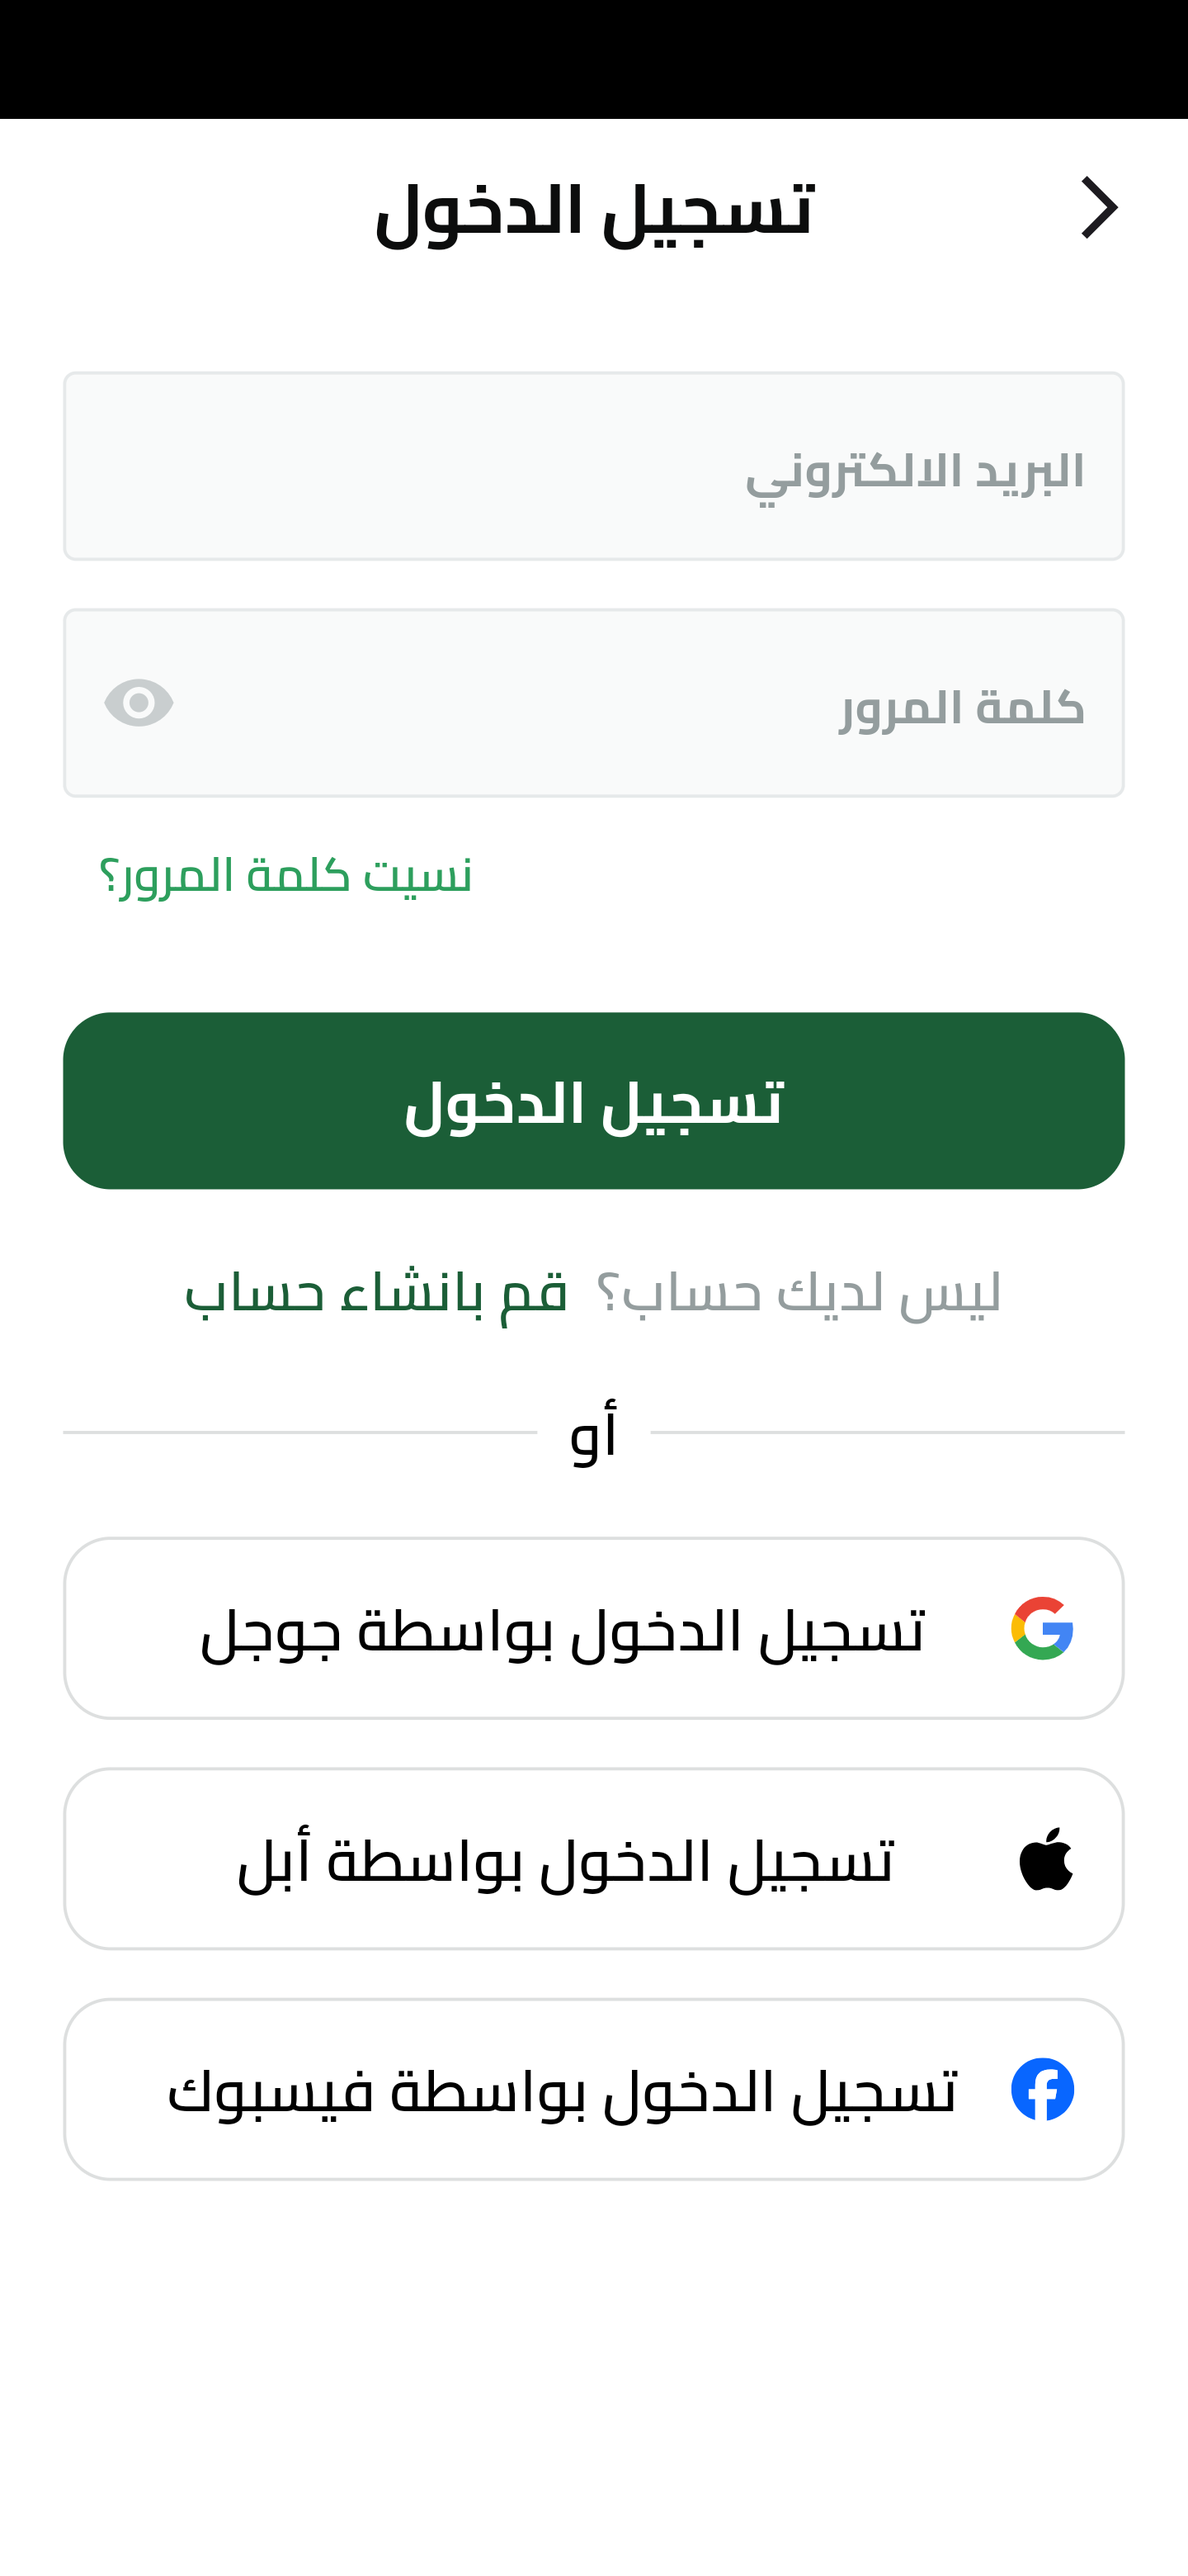
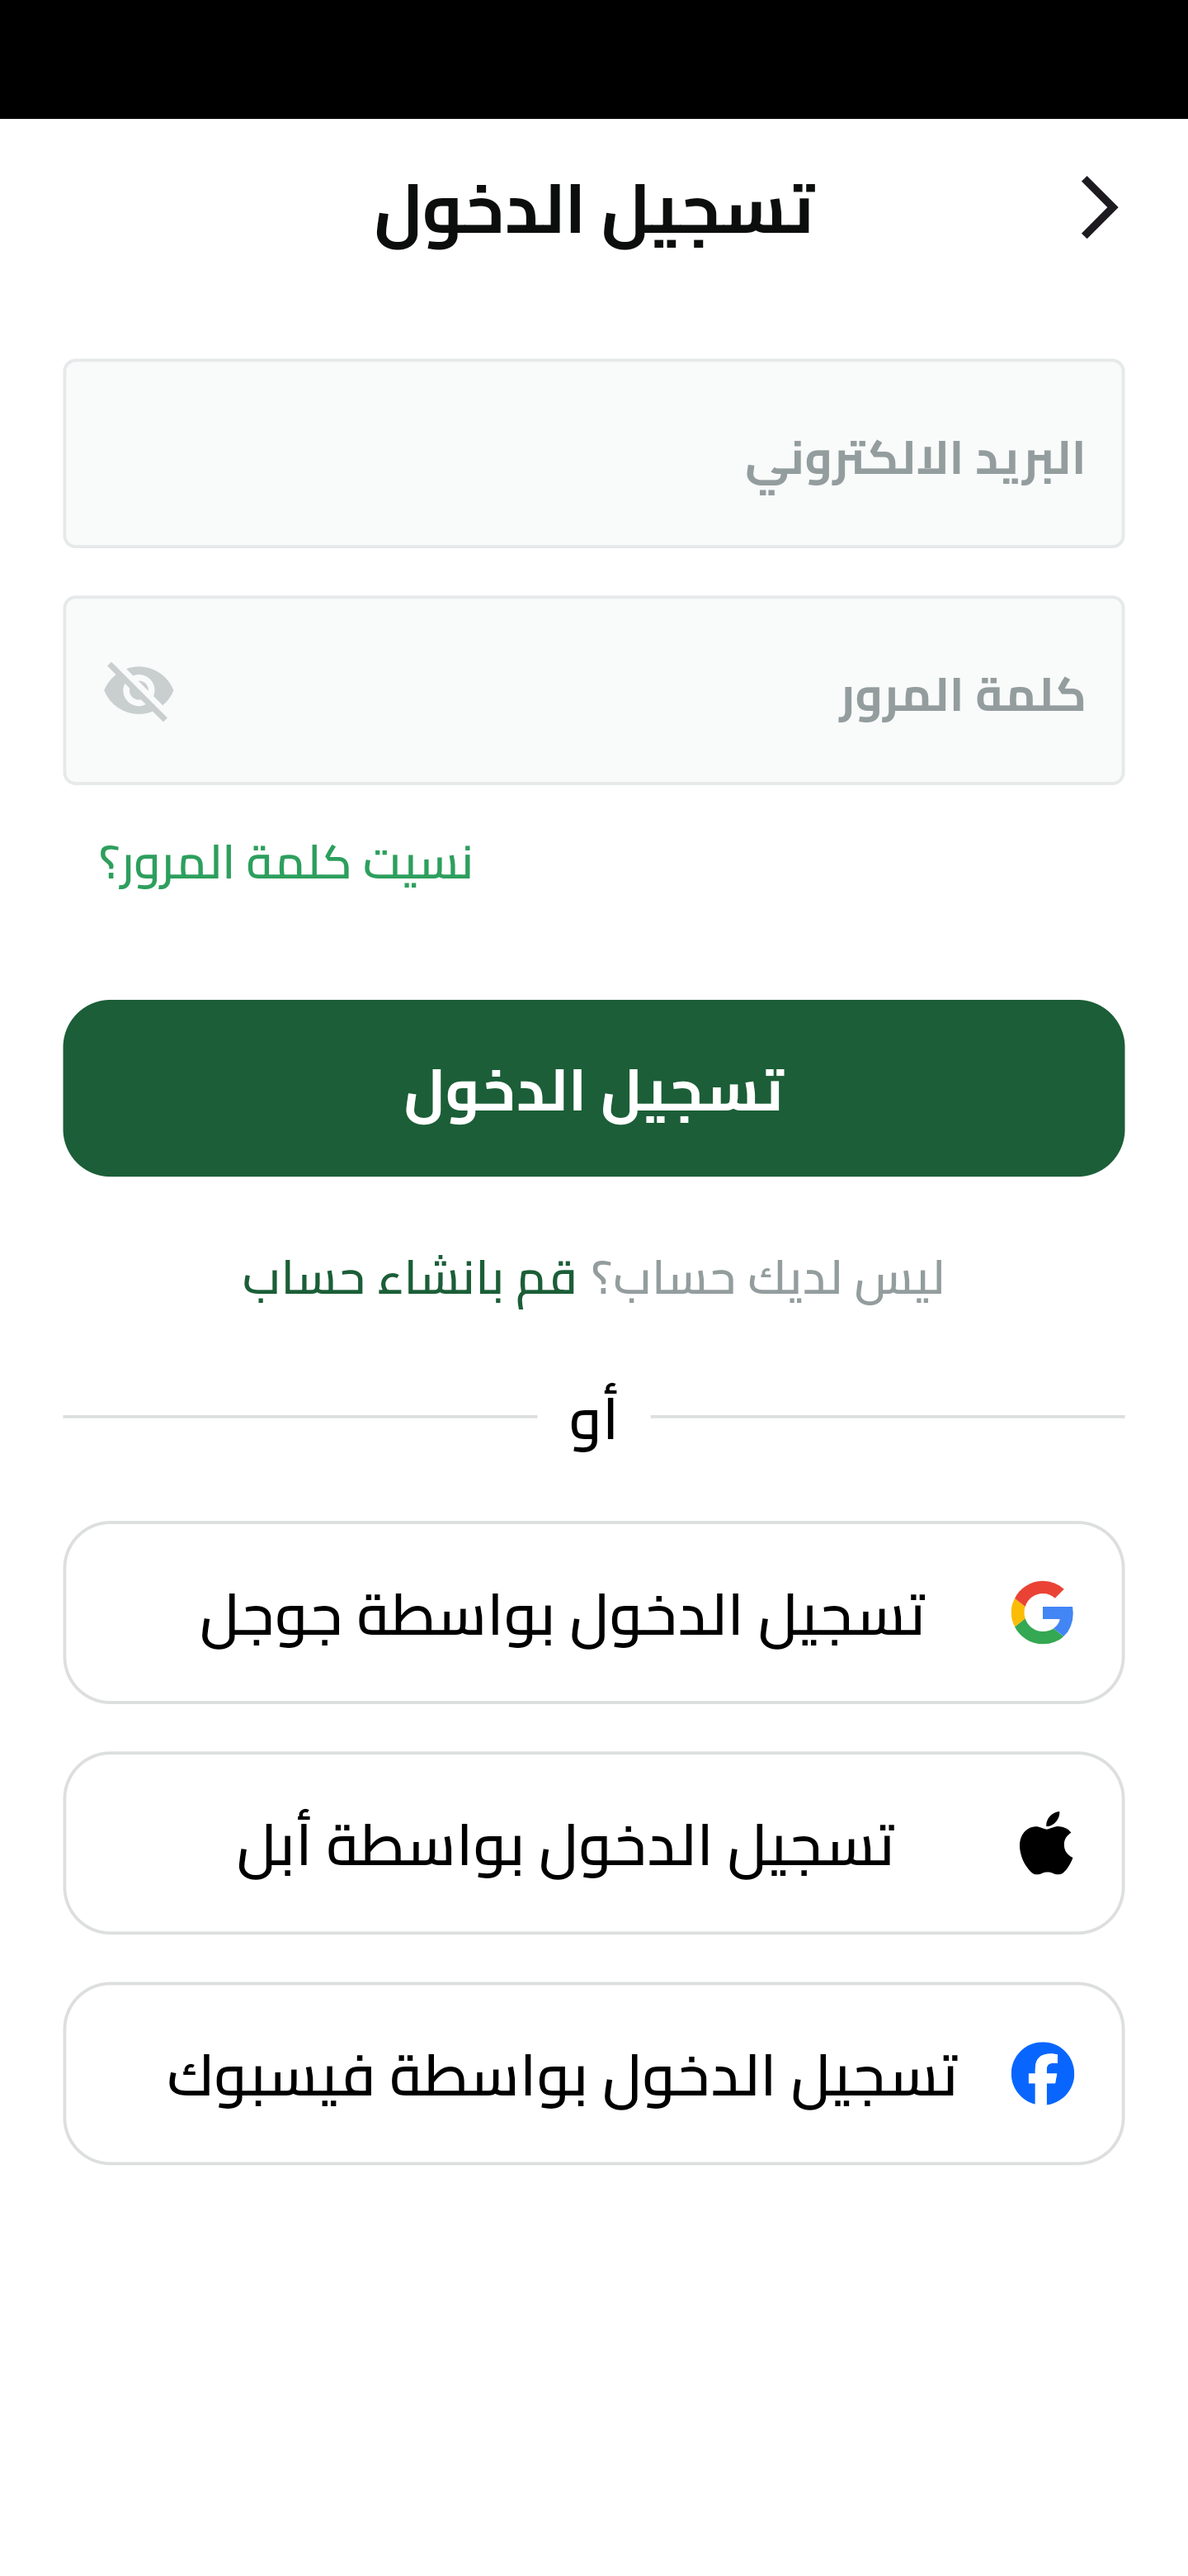
Add sign up view and related widgets
Added the sign up view and its related widgets including the name, email, and password fields, privacy policy checkbox, and sign up button. Also added a new route for the sign up view in the app router. Updated the login view by removing unnecessary gaps and reordering the widgets. Removed the unused forget password view from the todo list.

diff --git a/lib/features/auth/views/sign_up_view.dart b/lib/features/auth/views/sign_up_view.dart
@@ -1,0 +1,72 @@
+import 'package:flutter/material.dart';
+import 'package:fruit_hub/core/widgets/custom_button.dart';
+import 'package:gap/gap.dart';
+import 'package:go_router/go_router.dart';
+
+import '../../../core/widgets/custom_app_bar.dart';
+import '../../../core/widgets/mixed_text_button.dart';
+import '../../../k.dart';
+import '../widgets/sign_up_email_field.dart';
+import '../widgets/sign_up_name_field.dart';
+import '../widgets/sign_up_password_field.dart';
+import 'sign_up_privacy_policy.dart';
+
+class SignUpView extends StatelessWidget {
+  const SignUpView({super.key});
+
+  @override
+  Widget build(BuildContext context) {
+    return const Scaffold(
+      backgroundColor: Colors.white,
+      appBar: CustomAppBar(
+        title: 'حساب جديد',
+      ),
+      body: Padding(
+        padding: EdgeInsets.symmetric(
+          horizontal: K.horizontalPadding,
+          vertical: K.verticalPadding,
+        ),
+        child: Column(
+          children: [
+            SignUpNameField(),
+            Gap(15),
+            SignUpEmailField(),
+            Gap(15),
+            SignUpPasswordField(),
+            Gap(15),
+            SignUpPrivacyPolicy(),
+            Gap(20),
+            SignUpButton(),
+            Gap(15),
+            LoginNow(),
+          ],
+        ),
+      ),
+    );
+  }
+}
+
+class SignUpButton extends StatelessWidget {
+  const SignUpButton({super.key});
+
+  @override
+  Widget build(BuildContext context) {
+    return CustomButton(
+      text: 'إنشاء حساب جديد',
+      onPressed: () {},
+    );
+  }
+}
+
+class LoginNow extends StatelessWidget {
+  const LoginNow({super.key});
+
+  @override
+  Widget build(BuildContext context) {
+    return MixedTextButton(
+      normalText: 'تمتلك حساب بالفعل؟',
+      buttonText: 'تسجيل دخول',
+      onPressed: () => context.pop(),
+    );
+  }
+}

diff --git a/lib/core/widgets/mixed_text_button.dart b/lib/core/widgets/mixed_text_button.dart
@@ -1,6 +1,8 @@
+import 'package:flutter/gestures.dart';
 import 'package:flutter/material.dart';
-import 'package:fruit_hub/core/utils/app_colors.dart';
 import 'package:fruit_hub/core/utils/app_styles.dart';
+
+import '../utils/app_colors.dart';
 
 class MixedTextButton extends StatelessWidget {
   const MixedTextButton({
@@ -18,31 +20,26 @@ class MixedTextButton extends StatelessWidget {
   @override
   Widget build(BuildContext context) {
     return Text.rich(
+      textDirection: TextDirection.rtl,
+      textAlign: TextAlign.start,
+      softWrap: true,
       TextSpan(
         children: [
-          WidgetSpan(
-            alignment: PlaceholderAlignment.middle,
-            child: Text(
-              buttonText,
-              style: AppStyles.semiBold13.copyWith(
-                color: isLight
-                    ? AppColors.lightPrimaryColor
-                    : AppColors.primaryColor,
-              ),
+          TextSpan(
+            text: normalText,
+            style: AppStyles.semiBold13.copyWith(
+              color: const Color(0XFF949D9E),
             ),
           ),
           const TextSpan(text: ' '),
-          WidgetSpan(
-            alignment: PlaceholderAlignment.middle,
-            child: GestureDetector(
-              onTap: onPressed,
-              child: Text(
-                normalText,
-                style: AppStyles.semiBold13.copyWith(
-                  color: const Color(0XFF949D9E),
-                ),
-              ),
+          TextSpan(
+            text: buttonText,
+            style: AppStyles.semiBold13.copyWith(
+              color: isLight
+                  ? AppColors.lightPrimaryColor
+                  : AppColors.primaryColor,
             ),
+            recognizer: TapGestureRecognizer()..onTap = onPressed,
           ),
         ],
       ),

diff --git a/lib/features/auth/views/login_view.dart b/lib/features/auth/views/login_view.dart
@@ -4,12 +4,12 @@ import 'package:gap/gap.dart';
 
 import '../../../core/widgets/custom_app_bar.dart';
 import '../../../core/widgets/or_divider.dart';
+import '../widgets/forget_password.dart';
 import '../widgets/login_button.dart';
 import '../widgets/login_by_apple.dart';
 import '../widgets/login_by_facebook.dart';
 import '../widgets/login_by_google.dart';
 import '../widgets/login_email_field.dart';
-import '../widgets/forget_password.dart';
 import '../widgets/login_password_field.dart';
 import '../widgets/sign_up_now.dart';
 
@@ -27,10 +27,10 @@ class LoginView extends StatelessWidget {
         child: Padding(
           padding: EdgeInsets.symmetric(
             horizontal: K.horizontalPadding,
+            vertical: K.verticalPadding,
           ),
           child: Column(
             children: [
-              Gap(24),
               LoginEmailField(),
               Gap(15),
               LoginPasswordField(),
@@ -51,7 +51,6 @@ class LoginView extends StatelessWidget {
               LoginByApple(),
               Gap(15),
               LoginByFacebook(),
-              Gap(20),
             ],
           ),
         ),

diff --git a/lib/features/auth/views/sign_up_privacy_policy.dart b/lib/features/auth/views/sign_up_privacy_policy.dart
@@ -1,0 +1,31 @@
+import 'package:flutter/material.dart';
+import 'package:flutter_hooks/flutter_hooks.dart';
+import 'package:fruit_hub/core/utils/app_colors.dart';
+import 'package:fruit_hub/core/widgets/mixed_text_button.dart';
+
+class SignUpPrivacyPolicy extends HookWidget {
+  const SignUpPrivacyPolicy({super.key});
+
+  @override
+  Widget build(BuildContext context) {
+    final isAccepted = useState(false);
+    return Row(
+      crossAxisAlignment: CrossAxisAlignment.start,
+      children: [
+        Checkbox(
+          value: isAccepted.value,
+          checkColor: Colors.white,
+          activeColor: AppColors.primaryColor,
+          onChanged: (value) => isAccepted.value = value!,
+        ),
+        const Expanded(
+          child: MixedTextButton(
+            normalText: 'من خلال إنشاء حساب ، فإنك توافق على',
+            buttonText: 'الشروط والأحكام الخاصة بنا',
+            isLight: true,
+          ),
+        ),
+      ],
+    );
+  }
+}

diff --git a/lib/core/utils/app_router.dart b/lib/core/utils/app_router.dart
@@ -1,4 +1,5 @@
 import 'package:fruit_hub/features/auth/views/login_view.dart';
+import 'package:fruit_hub/features/auth/views/sign_up_view.dart';
 import 'package:fruit_hub/features/on_boarding/views/on_boarding_view.dart';
 import 'package:go_router/go_router.dart';
 
@@ -7,6 +8,7 @@ import '../../features/splash/views/splash_view.dart';
 class AppRouter {
   static const onBoardingView = '/onBoardingView';
   static const loginView = '/loginView';
+  static const signUpView = '/signUpView';
 
   static final GoRouter router = GoRouter(
     routes: [
@@ -21,6 +23,10 @@ class AppRouter {
       GoRoute(
         path: loginView,
         builder: (context, state) => const LoginView(),
+      ),
+      GoRoute(
+        path: signUpView,
+        builder: (context, state) => const SignUpView(),
       ),
     ],
   );

diff --git a/lib/features/auth/widgets/sign_up_password_field.dart b/lib/features/auth/widgets/sign_up_password_field.dart
@@ -1,0 +1,27 @@
+import 'package:flutter/material.dart';
+import 'package:flutter_hooks/flutter_hooks.dart';
+import 'package:fruit_hub/core/widgets/custom_text_field.dart';
+
+class SignUpPasswordField extends HookWidget {
+  const SignUpPasswordField({
+    super.key,
+  });
+
+  @override
+  Widget build(BuildContext context) {
+    final isVisible = useState(true);
+    return CustomTextField(
+      hintText: 'كلمة المرور',
+      obscureText: !isVisible.value,
+      suffixIcon: IconButton(
+        onPressed: () {
+          isVisible.value = !isVisible.value;
+        },
+        icon: Icon(
+          isVisible.value ? Icons.visibility : Icons.visibility_off,
+          color: const Color(0XFFC9CECF),
+        ),
+      ),
+    );
+  }
+}

diff --git a/lib/features/auth/widgets/sign_up_now.dart b/lib/features/auth/widgets/sign_up_now.dart
@@ -1,5 +1,7 @@
 import 'package:flutter/material.dart';
+import 'package:fruit_hub/core/utils/app_router.dart';
 import 'package:fruit_hub/core/widgets/mixed_text_button.dart';
+import 'package:go_router/go_router.dart';
 
 class SignUpNow extends StatelessWidget {
   const SignUpNow({
@@ -8,9 +10,10 @@ class SignUpNow extends StatelessWidget {
 
   @override
   Widget build(BuildContext context) {
-    return const MixedTextButton(
-      normalText: 'ليس لديك حساب؟ ',
+    return MixedTextButton(
+      normalText: 'ليس لديك حساب؟',
       buttonText: 'قم بانشاء حساب',
+      onPressed: () => context.push(AppRouter.signUpView),
     );
   }
 }

diff --git a/lib/features/auth/widgets/sign_up_email_field.dart b/lib/features/auth/widgets/sign_up_email_field.dart
@@ -1,0 +1,13 @@
+import 'package:flutter/material.dart';
+import 'package:fruit_hub/core/widgets/custom_text_field.dart';
+
+class SignUpEmailField extends StatelessWidget {
+  const SignUpEmailField({
+    super.key,
+  });
+
+  @override
+  Widget build(BuildContext context) {
+    return const CustomTextField(hintText: 'البريد الالكتروني');
+  }
+}

diff --git a/lib/features/auth/widgets/sign_up_name_field.dart b/lib/features/auth/widgets/sign_up_name_field.dart
@@ -1,0 +1,13 @@
+import 'package:flutter/material.dart';
+import 'package:fruit_hub/core/widgets/custom_text_field.dart';
+
+class SignUpNameField extends StatelessWidget {
+  const SignUpNameField({
+    super.key,
+  });
+
+  @override
+  Widget build(BuildContext context) {
+    return const CustomTextField(hintText: 'الاسم كامل');
+  }
+}

diff --git a/lib/core/utils/app_styles.dart b/lib/core/utils/app_styles.dart
@@ -41,6 +41,10 @@ class AppStyles {
     fontSize: 13,
     color: const Color(0xff0c0d0d),
   );
+  static final TextStyle semiBold15 = _semiBold.copyWith(
+    fontSize: 15,
+    color: const Color(0XFF949D9E),
+  );
   static final TextStyle semiBold16 = _semiBold.copyWith(
     fontSize: 16,
     color: const Color(0xff1b5e37),
